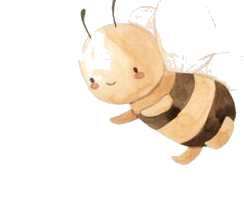
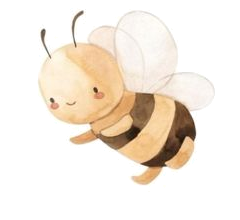
numbers page

diff --git a/src/screens/Subject/SubjectScreen.tsx b/src/screens/Subject/SubjectScreen.tsx
@@ -1,5 +1,6 @@
 import React from 'react';
 import {
+  Image,
   Pressable,
   ScrollView,
   StyleSheet,
@@ -12,7 +13,10 @@ import { LessonTile } from '../../components/LessonTile/LessonTile';
 import { Screen } from '../../components/Screen/Screen';
 import { getLessonsForSubject, getSubject } from '../../content';
 import type { SubjectId } from '../../lesson/types';
-import { spacing, textStyles, ui } from '../../theme';
+import { cardSurface, radius, spacing, textStyles, ui } from '../../theme';
+
+const idleAnimation = require('../../assets/images/Idle.gif');
+const colorsTitleImage = require('../../assets/images/colors.png');
 
 interface SubjectScreenProps {
   subjectId: SubjectId;
@@ -73,15 +77,31 @@ export function SubjectScreen({
   );
 
   return (
-    <Screen>
+    <Screen style={subjectId === 'colors' ? styles.colorsScreen : undefined}>
       {/* The same quiet, adult-sized back control as a lesson's "Done". A
           child pressing around the screen should land in a lesson, not back
           out to the home screen. */}
-      <View style={styles.header}>
-        <Text style={styles.title}>{subject?.title ?? ''}</Text>
+      <View
+        style={[
+          styles.header,
+          subjectId !== 'animals' && styles.centeredHeader,
+        ]}>
+        {subjectId === 'colors' ? (
+          <Image
+            source={colorsTitleImage}
+            style={styles.colorsTitleImage}
+            resizeMode="contain"
+            accessible={false}
+          />
+        ) : (
+          <Text style={styles.title}>{subject?.title ?? ''}</Text>
+        )}
         <Pressable
           onPress={onBack}
-          style={styles.backButton}
+          style={[
+            styles.backButton,
+            subjectId !== 'animals' && styles.centeredBackButton,
+          ]}
           hitSlop={8}
           accessibilityRole="button"
           accessibilityLabel="Back to home">
@@ -106,37 +126,81 @@ export function SubjectScreen({
             />
           </View>
         ))}
+        {(
+          subjectId === 'colors' ||
+          subjectId === 'numbers' ||
+          subjectId === 'animals'
+        ) && (
+          <View style={styles.idleCard}>
+            <Image
+              source={idleAnimation}
+              style={styles.idleImage}
+              resizeMode="contain"
+              accessible={false}
+            />
+          </View>
+        )}
       </ScrollView>
     </Screen>
   );
 }
 
 const styles = StyleSheet.create({
+  colorsScreen: {
+    paddingTop: 11,
+  },
   header: {
+    position: 'relative',
     flexDirection: 'row',
     alignItems: 'center',
     justifyContent: 'space-between',
     paddingVertical: spacing.md,
     paddingBottom: spacing.lg,
   },
+  centeredHeader: {
+    justifyContent: 'center',
+  },
   title: {
     ...textStyles.title,
     color: ui.ink,
   },
+  colorsTitleImage: {
+    width: 190,
+    height: 84,
+  },
   backButton: {
     minWidth: 44,
     minHeight: 44,
-    alignItems: 'flex-end',
+    paddingHorizontal: spacing.md,
+    alignItems: 'center',
     justifyContent: 'center',
+    borderRadius: radius.full,
+    ...cardSurface,
   },
   backLabel: {
     ...textStyles.caption,
     color: ui.inkSoft,
+  },
+  centeredBackButton: {
+    position: 'absolute',
+    top: spacing.md,
+    right: 0,
   },
   grid: {
     flexDirection: 'row',
     flexWrap: 'wrap',
     gap: spacing.md,
     paddingBottom: spacing.xl,
+  },
+  idleCard: {
+    width: '100%',
+    alignItems: 'center',
+    padding: spacing.lg,
+    borderRadius: radius.lg,
+    ...cardSurface,
+  },
+  idleImage: {
+    width: '100%',
+    height: 300,
   },
 });

diff --git a/src/components/LessonHeader/LessonHeader.tsx b/src/components/LessonHeader/LessonHeader.tsx
@@ -1,6 +1,6 @@
 import React from 'react';
 import { Pressable, StyleSheet, Text, View } from 'react-native';
-import { spacing, textStyles, ui } from '../../theme';
+import { cardSurface, radius, spacing, textStyles, ui } from '../../theme';
 import { ProgressIndicator } from '../ProgressIndicator/ProgressIndicator';
 
 interface LessonHeaderProps {
@@ -47,8 +47,12 @@ const styles = StyleSheet.create({
   closeButton: {
     minWidth: 44,
     minHeight: 44,
-    alignItems: 'flex-end',
+    paddingHorizontal: spacing.md + 1.5,
+    alignItems: 'center',
     justifyContent: 'center',
+    borderRadius: radius.full,
+    transform: [{ translateY: 7 }],
+    ...cardSurface,
   },
   closeLabel: {
     ...textStyles.caption,

diff --git a/src/components/CaptionText/CaptionText.tsx b/src/components/CaptionText/CaptionText.tsx
@@ -36,12 +36,15 @@ export function CaptionText({ text }: CaptionTextProps) {
 const styles = StyleSheet.create({
   container: {
     // Room for two lines, reserved permanently.
-    minHeight: fontSize.body * 1.45 * 2,
+    minHeight: (fontSize.body + 7) * 1.45 * 2,
     justifyContent: 'center',
     paddingHorizontal: spacing.md,
+    transform: [{ translateY: -7 }],
   },
   text: {
     ...textStyles.body,
+    fontSize: fontSize.body + 7,
+    lineHeight: (fontSize.body + 7) * 1.45,
     color: ui.inkSoft,
     textAlign: 'center',
   },

diff --git a/src/screens/Home/HomeScreen.tsx b/src/screens/Home/HomeScreen.tsx
@@ -212,10 +212,14 @@ const styles = StyleSheet.create({
     marginLeft: 285,
   },
   parentLink: {
-    minHeight: 44,
+    alignSelf: 'center',
+    minHeight: 50,
+    paddingHorizontal: spacing.md,
     alignItems: 'center',
     justifyContent: 'center',
-    paddingVertical: spacing.md,
+    borderRadius: radius.full,
+    transform: [{ translateY: -11 }],
+    ...cardSurface,
   },
   parentLinkLabel: {
     ...textStyles.caption,

diff --git a/src/screens/Parent/ParentScreen.tsx b/src/screens/Parent/ParentScreen.tsx
@@ -58,7 +58,7 @@ export function ParentScreen({ onBack }: ParentScreenProps) {
       </ScrollView>
 
       <View style={styles.footer}>
-        <SoftButton label="Back" variant="quiet" onPress={onBack} />
+        <SoftButton label="Back" onPress={onBack} />
       </View>
     </Screen>
   );
